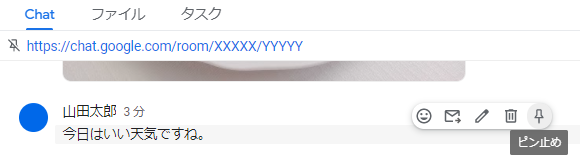
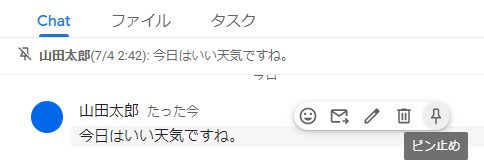
update doc of pin function

diff --git a/src/options_page/options.html b/src/options_page/options.html
@@ -264,7 +264,7 @@
 		<div class="switch"><div class="toggle-switch"><label><input id="pin_message" type="checkbox"><span class="toggle-switch-body"></span></label></div></div>
 		<div class="details">
 			<h3>メッセージのピン止め</h3>
-			<p>指定したメッセージのURLを上部に表示します。</p>
+			<p>指定したメッセージの情報を上部に表示します。クリックするとメッセージに飛びます。</p>
 		</div>
 	</section>
 	<section>
